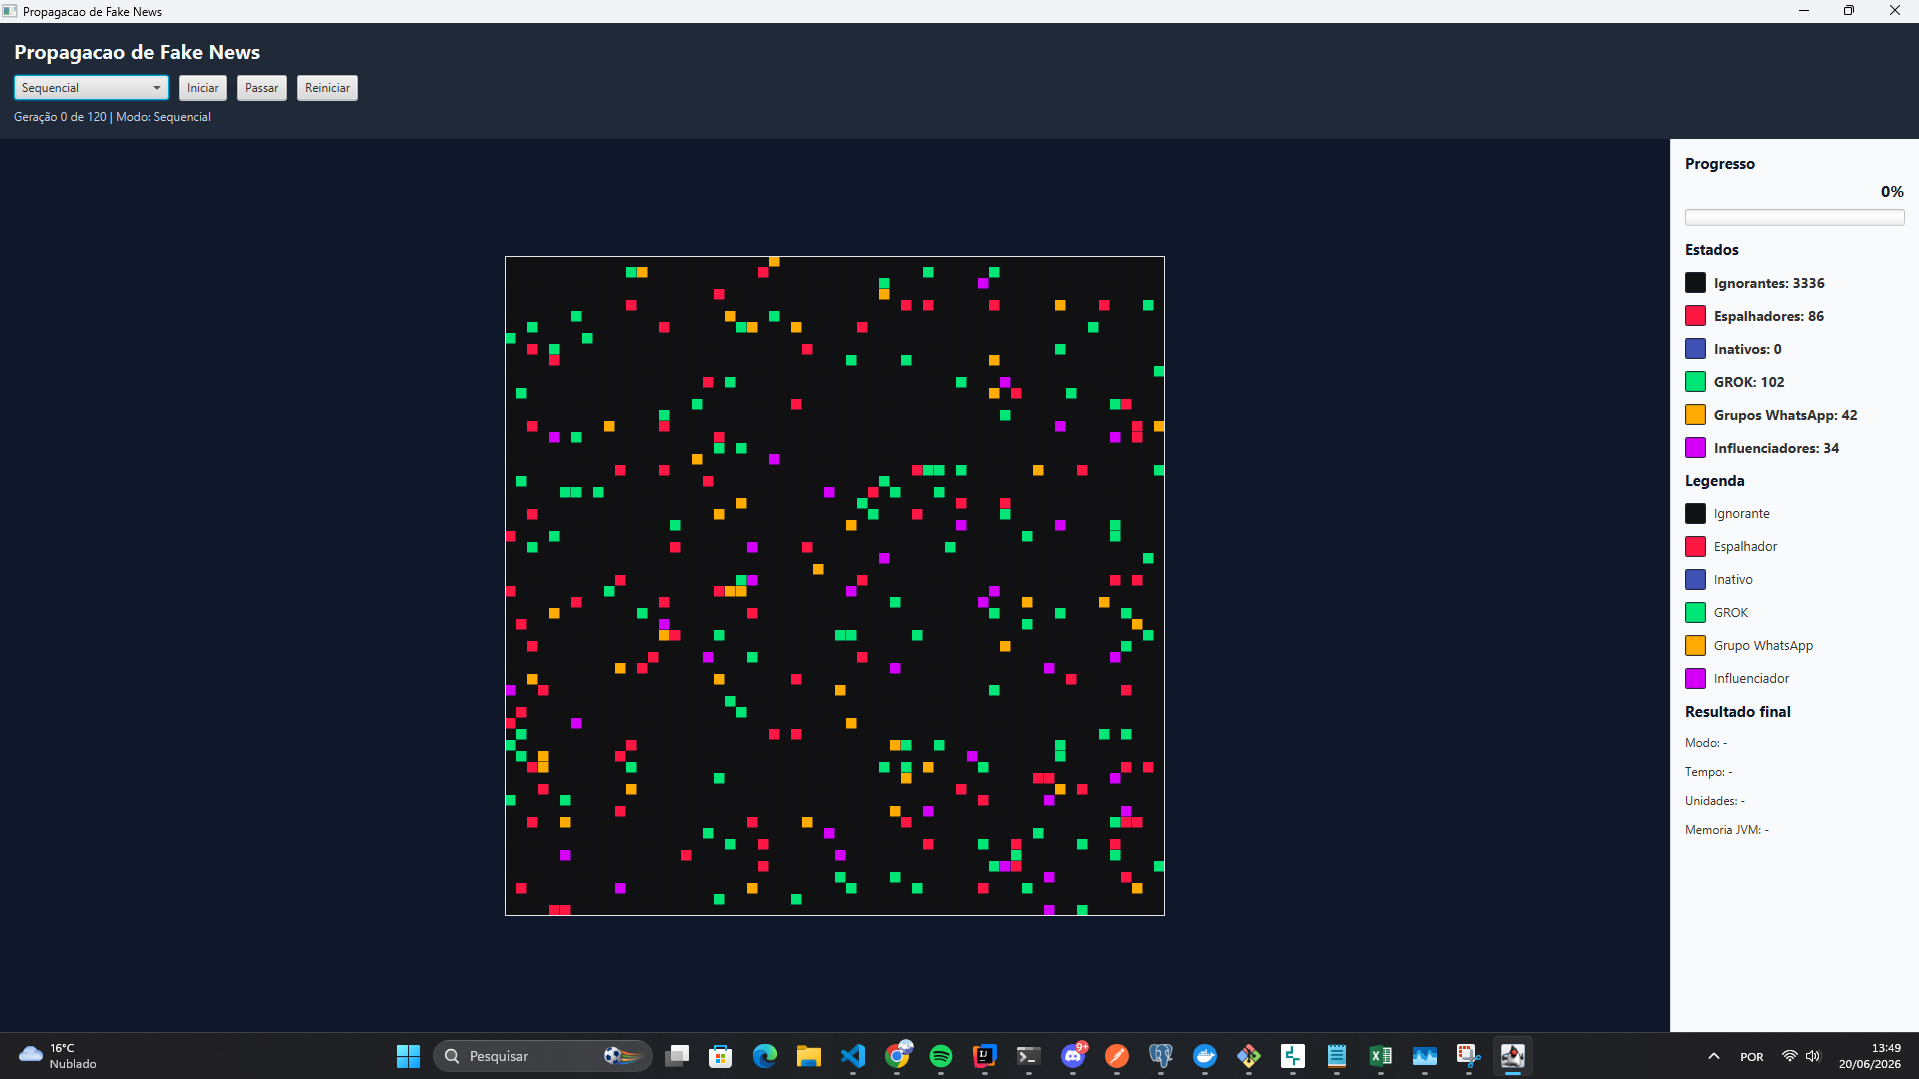
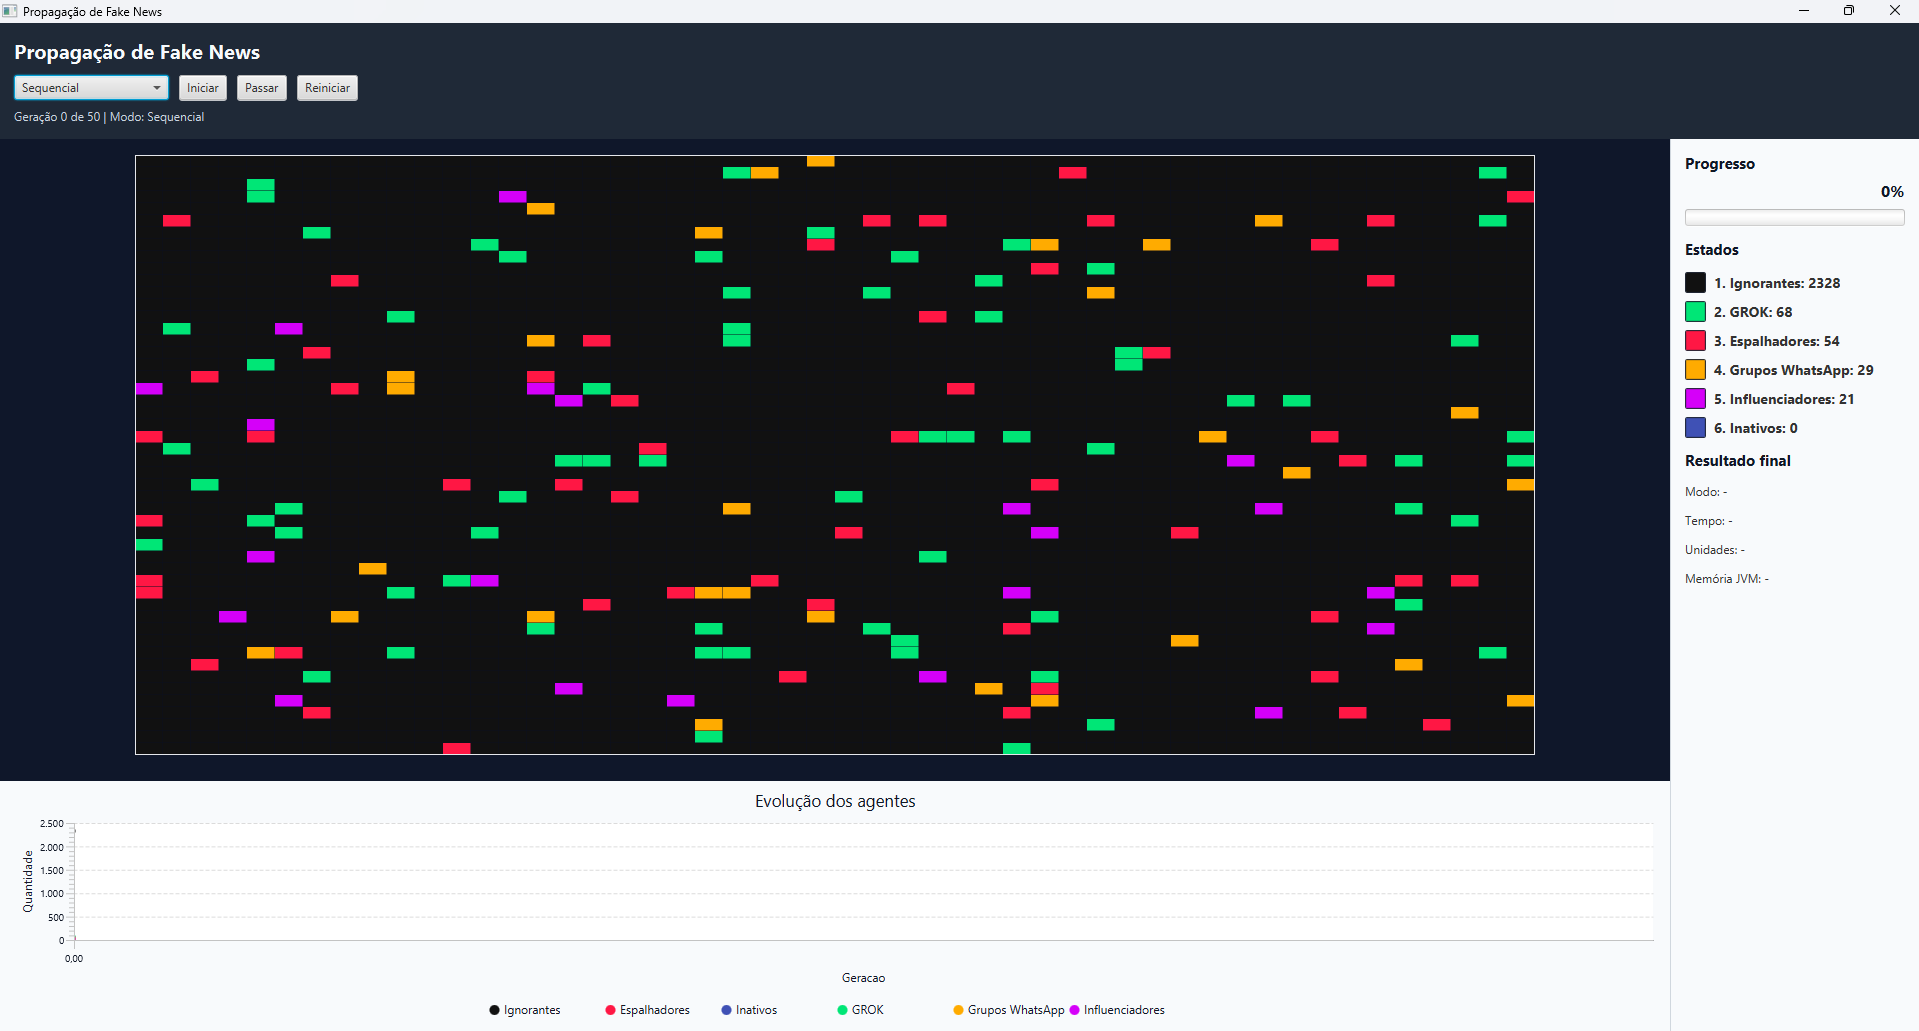
feat: update assets

diff --git a/src/main/java/app/SimulationViewer.java b/src/main/java/app/SimulationViewer.java
@@ -40,9 +40,9 @@ import java.util.Comparator;
 import java.util.List;
 
 public class SimulationViewer extends Application {
-    private static final int ROWS = 400;
-    private static final int COLUMNS = 400;
-    private static final int GENERATIONS = 100;
+    private static final int ROWS = 100;
+    private static final int COLUMNS = 100;
+    private static final int GENERATIONS = 50;
     private static final int THREADS = 12;
     private static final int RMI_WORKERS = 2;
     private static final int RMI_BASE_PORT = 9600;